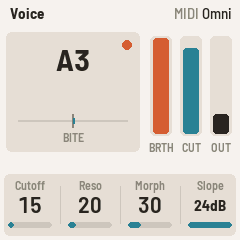
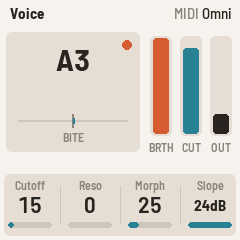
Voice: the init sound is one saw, breath on cutoff only
Morph starts at 25, VA-VCF's pure saw (at 30 it blended in a square, its odd harmonics louder than
the even ones), Resonance at 0, and Mod 2-4 are off and start on Cutoff instead of showing Amp,
Reso and Morph. A new test checks the init waveform's harmonics fall as 1/n.

The browser page's Breath slider is removed, and the virtual windsynth and the MIDI recorder are
cut from the plan: not wanted.

VERSION 0.0.4 (development: nothing is released).

Claude-Session: https://claude.ai/code/session_01V8eezFWZLLsAddzb6HjAEh

diff --git a/web/emu/index.html b/web/emu/index.html
@@ -63,8 +63,7 @@ kbd { font: 600 .85em ui-monospace, Menlo, monospace; background: var(--card); b
 .mon .v { color: var(--ink); font-weight: 600; font-variant-numeric: tabular-nums; }
 .mon .dot { display: inline-block; width: .6rem; height: .6rem; border-radius: 50%; background: var(--rule); vertical-align: middle; }
 .mon .dot.on { background: var(--teal); }
-.bar select, .bar input[type=range] { font: inherit; color: var(--ink); background: var(--card); border: 1px solid var(--rule); border-radius: 8px; }
-.bar label { display: inline-flex; gap: .4rem; align-items: center; }
+.bar select { font: inherit; color: var(--ink); background: var(--card); border: 1px solid var(--rule); border-radius: 8px; }
 /* the installer */
 .install { margin: 1.8rem 0 0; padding: 1.1rem 1.2rem 1.2rem; background: var(--card); border: 1px solid var(--rule); border-radius: 14px; }
 .install h2 { font: 700 1.35rem "Barlow Semi Condensed", "Barlow", sans-serif; margin: 0 0 .5rem; }
@@ -106,7 +105,6 @@ kbd { font: 600 .85em ui-monospace, Menlo, monospace; background: var(--card); b
   <button id="midi" type="button" title="Play it from your windsynth or any MIDI controller (Chrome or Edge)">Connect MIDI</button>
   <select id="midiIn" aria-label="MIDI input" hidden></select>
   <span class="midi" id="midistat"></span>
-  <label title="No breath controller? Drag this: it sends breath (CC2), as a windsynth would">Breath <input type="range" id="breath" min="0" max="127" value="0"></label>
   <button id="reset" type="button" title="Forget your sound and settings, and start again from the factory settings">Factory reset</button>
 </div>
 
@@ -167,7 +165,6 @@ kbd { font: 600 .85em ui-monospace, Menlo, monospace; background: var(--card); b
       <li>The <b>bite</b> (pitch bend) bends ±2 semitones by default (Pitch page). <b>Glide</b> follows CC5 by default; another CC, or none, on the Pitch page.</li>
       <li>Last note wins: overlapping notes play legato, without a new attack, and letting one go returns to the one still held.</li>
       <li>The FM-1's own keys play from F3, every key its printed note, as if blown at the Keys page's <b>Key breath</b>. <b>OCT−</b> / <b>OCT+</b> shift them; <b>PRESETS</b> transposes everything.</li>
-      <li>No windsynth? Play notes from the keys or a keyboard and drag <b>Breath</b> under the panel.</li>
     </ul>
   </div>
   <div>
@@ -577,8 +574,6 @@ document.getElementById("midi").addEventListener("click", async () => {
     midiStat.textContent = "MIDI was refused here (" + (err && err.name || "blocked") + "). Opening the page on its own, outside another site, may allow it.";
   }
 });
-// the on-page breath: CC2 on channel 1, which the default settings (Omni, breath CC2) hear
-document.getElementById("breath").addEventListener("input", (e) => send({ type: "midi", st: 0xB0, d1: 2, d2: +e.target.value }));
 document.getElementById("reset").addEventListener("click", () => {
   if (document.getElementById("reset").dataset.armed) {
     try { localStorage.removeItem(STORE_KEY); } catch {}

diff --git a/tests/host/wind_voice_test.c b/tests/host/wind_voice_test.c
@@ -217,6 +217,41 @@ static void test_voice(const char *dir)
     }
 }
 
+/* the n-th harmonic's level in buf[0..len), the note's period P samples: a Hann-windowed DFT bin */
+static float harmonic(uint32_t len, float period, int n)
+{
+    float re = 0.0f, im = 0.0f;
+    uint32_t i;
+    for (i = 0; i < len; i++) {
+        float w = 0.5f - 0.5f * fm_sin_turns((float)i / (float)len + 0.25f), t = (float)n * (float)i / period;
+        t -= (float)(int)t;
+        re += buf[i] * w * fm_sin_turns(t + 0.25f);
+        im += buf[i] * w * fm_sin_turns(t);
+    }
+    return fm_sqrtf(re * re + im * im);
+}
+
+/* the init sound is one saw: MORPH 0.25 is VA-VCF's pure saw (no square, no sub). With the filter open
+ * and no resonance its harmonics fall as 1/n. */
+static void test_saw(void)
+{
+    const float note = 57.0f, period = 47872.34f / (440.0f * fm_exp2f((note - 69.0f) / 12.0f));
+    const uint32_t len = 32768;
+    float h1, r[4];
+    int n;
+    wv_init();
+    wv_render_raw(note, 1.0f, 0.25f, 0.625f, buf, len);    /* settle */
+    wv_render_raw(note, 1.0f, 0.25f, 0.625f, buf, len);
+    h1 = harmonic(len, period, 1);
+    for (n = 2; n <= 5; n++) {
+        r[n - 2] = harmonic(len, period, n) / h1;
+        CHECK(fm_fabsf(r[n - 2] * (float)n - 1.0f) < 0.15f, "saw: harmonic %d at %.3f of the first, not 1/%d", n,
+              (double)r[n - 2], n);
+    }
+    printf("  saw harmonics 2-5: %.3f %.3f %.3f %.3f (1/n: .500 .333 .250 .200)\n", (double)r[0], (double)r[1],
+           (double)r[2], (double)r[3]);
+}
+
 int main(int argc, char **argv)
 {
     if (argc < 3) {
@@ -225,6 +260,7 @@ int main(int argc, char **argv)
     }
     test_sweep(argv[1], argv[2]);
     test_voice(argv[2]);
+    test_saw();
     if (fails)
         printf("%d check(s) failed\n", fails);
     return fails ? 1 : 0;

diff --git a/firmware/src/wind/wind_app.c b/firmware/src/wind/wind_app.c
@@ -8,13 +8,13 @@
 const char *const WA_NOTE_NAME[12] = {"C", "C#", "D", "D#", "E", "F", "F#", "G", "G#", "A", "A#", "B"};
 
 static const wa_param_t PARAMS[P_NPARAMS] = {
-    {"Cutoff", 0, 100, 15}, {"Reso", 0, 100, 20}, {"Morph", 0, 100, 30}, {"Slope", 0, 1, 1},
+    {"Cutoff", 0, 100, 15}, {"Reso", 0, 100, 0}, {"Morph", 0, 100, 25}, {"Slope", 0, 1, 1},
     {"Breath", 0, 128, 2}, {"Curve", -100, 100, 0}, {"Attack", 1, 200, 5}, {"Release", 5, 2000, 60},
     {"Bend", 0, 12, 2}, {"Glide CC", 0, 128, 5}, {"Glide", 0, 100, 0}, {"Glide on", 0, 1, 0},
     {"Source", 0, WM_NSRC - 1, WM_SRC_BREATH}, {"Dest", 0, WM_NDST - 1, WM_DST_CUTOFF}, {"Amount", -100, 100, 75},
-    {"Source", 0, WM_NSRC - 1, WM_SRC_OFF}, {"Dest", 0, WM_NDST - 1, WM_DST_AMP}, {"Amount", -100, 100, 0},
-    {"Source", 0, WM_NSRC - 1, WM_SRC_OFF}, {"Dest", 0, WM_NDST - 1, WM_DST_RES}, {"Amount", -100, 100, 0},
-    {"Source", 0, WM_NSRC - 1, WM_SRC_OFF}, {"Dest", 0, WM_NDST - 1, WM_DST_MORPH}, {"Amount", -100, 100, 0},
+    {"Source", 0, WM_NSRC - 1, WM_SRC_OFF}, {"Dest", 0, WM_NDST - 1, WM_DST_CUTOFF}, {"Amount", -100, 100, 0},
+    {"Source", 0, WM_NSRC - 1, WM_SRC_OFF}, {"Dest", 0, WM_NDST - 1, WM_DST_CUTOFF}, {"Amount", -100, 100, 0},
+    {"Source", 0, WM_NSRC - 1, WM_SRC_OFF}, {"Dest", 0, WM_NDST - 1, WM_DST_CUTOFF}, {"Amount", -100, 100, 0},
     {"Key brth", 0, 100, 100}, {"Octave", -3, 3, 0},
     {"Transpose", -24, 24, 0}, {"Tune", -100, 100, 0}, {"MIDI ch", 0, 16, 0}, {"Theme", 0, THEME_N - 1, 0},
 };

diff --git a/docs/PLAN.md b/docs/PLAN.md
@@ -154,8 +154,6 @@ The browser build is our main development surface until the FM-1 arrives, and th
 - **C++ in the build:** `em++` compiles the vendored Plaits files and `wind_voice.cc`; the C files stay on `emcc`. The same flags as the device: `-fno-exceptions -fno-rtti -fno-threadsafe-statics` and no fused multiply-add, so host and device produce the same samples.
 - **MIDI device picker and channel filter,** remembered in the browser. Today the page listens to every input.
 - **Dev overlay** beside the panel: live meters for breath (raw and conditioned), bend, glide time, the current note and each matrix destination, plus the render time per block on your computer.
-- **Virtual windsynth:** a breath slider, the space bar as breath with a ramp, and a bend wheel, for playing without the controller.
-- **Recorder:** captures incoming MIDI to a `.mid` file and replays it. Your EWI performances become repeatable test inputs (see Testing).
 - **A small JS API** on the page (`wind.get()`, `wind.set(path, value)`, `wind.onState(cb)`). It is the hook the custom UI will use later, so that UI never reaches into the firmware's memory directly.
 
 **Deployment:** CI publishes the page to GitHub Pages on every merge to `main`, as FiMba does, with the latest device package beside it for the web installer.
@@ -172,7 +170,7 @@ Six milestones; M0 to M3 need no hardware. Each ends at a check anyone can run.
    - Exit: the host render of a fixed note sweep matches upstream Plaits within 1 LSB, and the pi32v2 build links with no C++ runtime.
 3. **M2 Wind control.** Write `wind_ctl.c` and `wind_matrix.c`, replace the kalimba with the wind voice, and add the MIDI picker and dev overlay.
    - Exit: you play it from your windsynth in the browser. CC2 opens the cutoff, bite bends ±2 semitones, CC5 sets glide, and the parser and matrix unit tests pass.
-4. **M3 Playable instrument.** Add engine 1 with the post-filter, settings pages on the FM-1 screen, presets (8 to start) saved to flash, the virtual windsynth, the recorder and the JS API.
+4. **M3 Playable instrument.** Add engine 1 with the post-filter, settings pages on the FM-1 screen, presets (8 to start) saved to flash and the JS API.
    - Exit: settings and presets survive a reload, and every control in the spec is reachable from the panel.
 5. **M4 On the device** (once the FM-1 arrives). Back up the flash with an RP2040 Transporter, install the package, then measure CPU per engine and MIDI-to-sound latency over USB and TRS.
    - Exit: it plays from both inputs, worst-case CPU is under 50 % of one core, and latency is under 6 ms.

diff --git a/README.md b/README.md
@@ -34,7 +34,7 @@ step through every page.
 
 | Button | Page | Knobs |
 | --- | --- | --- |
-| HOME | Voice | Cutoff, Resonance, Morph (the engine's tone), Slope (12 or 24 dB) |
+| HOME | Voice | Cutoff, Resonance, Morph (the waveform: a saw up to 25, a square at 50, then a pulse that narrows and widens again; a sub-octave fades in below 20 and above 80), Slope (12 or 24 dB) |
 | ENV | Breath | Source (a CC, or aftertouch), Curve, Attack, Release |
 | LFO | Pitch | Bend range, Glide source, Glide time, Glide mode (always or legato) |
 | SEL | Mod 1–4 (press again for the next) | Source (breath, bite, mod wheel, pressure, velocity), Destination (cutoff, resonance, amp, morph), Amount (−100 to +100) |
@@ -51,6 +51,7 @@ press it again, to reset the sound to its defaults; the Setup page stays as it i
 - 0.0.2: Plaits' VA-VCF voice inside, bit-exact with upstream Plaits.
 - 0.0.3: playable: breath, bite, glide and the mod matrix, from any windsynth, with its own pages and
   screen. The kalimba is gone. The browser version picks a MIDI input and shows what it hears.
+- 0.0.4: the init sound is a single saw with breath on the cutoff only.
 
 ## Building and testing
 

diff --git a/CHANGELOG.md b/CHANGELOG.md
@@ -4,6 +4,14 @@ A release is a push to `main` that changes `VERSION` to a version with no tag ye
 release build, tags the commit `vX.Y.Z` and publishes the GitHub Release with that version's notes,
 taken from its section below. Add the section in the same pull request as the `VERSION` change.
 
+## 0.0.4
+
+- **The init sound is one saw**, with breath on the cutoff and nothing else: Morph starts at 25
+  (Classic's pure saw; at 30 it blended in a square), Resonance at 0, and Mod 2 to 4 are off (and
+  start on Cutoff rather than showing Amp, Reso and Morph). Settings you've already saved keep what
+  they had: Factory reset (or hold SAVE) to hear the new start.
+- The browser page's Breath slider is gone: play it from your windsynth.
+
 ## 0.0.3
 
 - **It plays.** Blow your windsynth into it (USB or the MIDI jack, any channel by default): breath on
